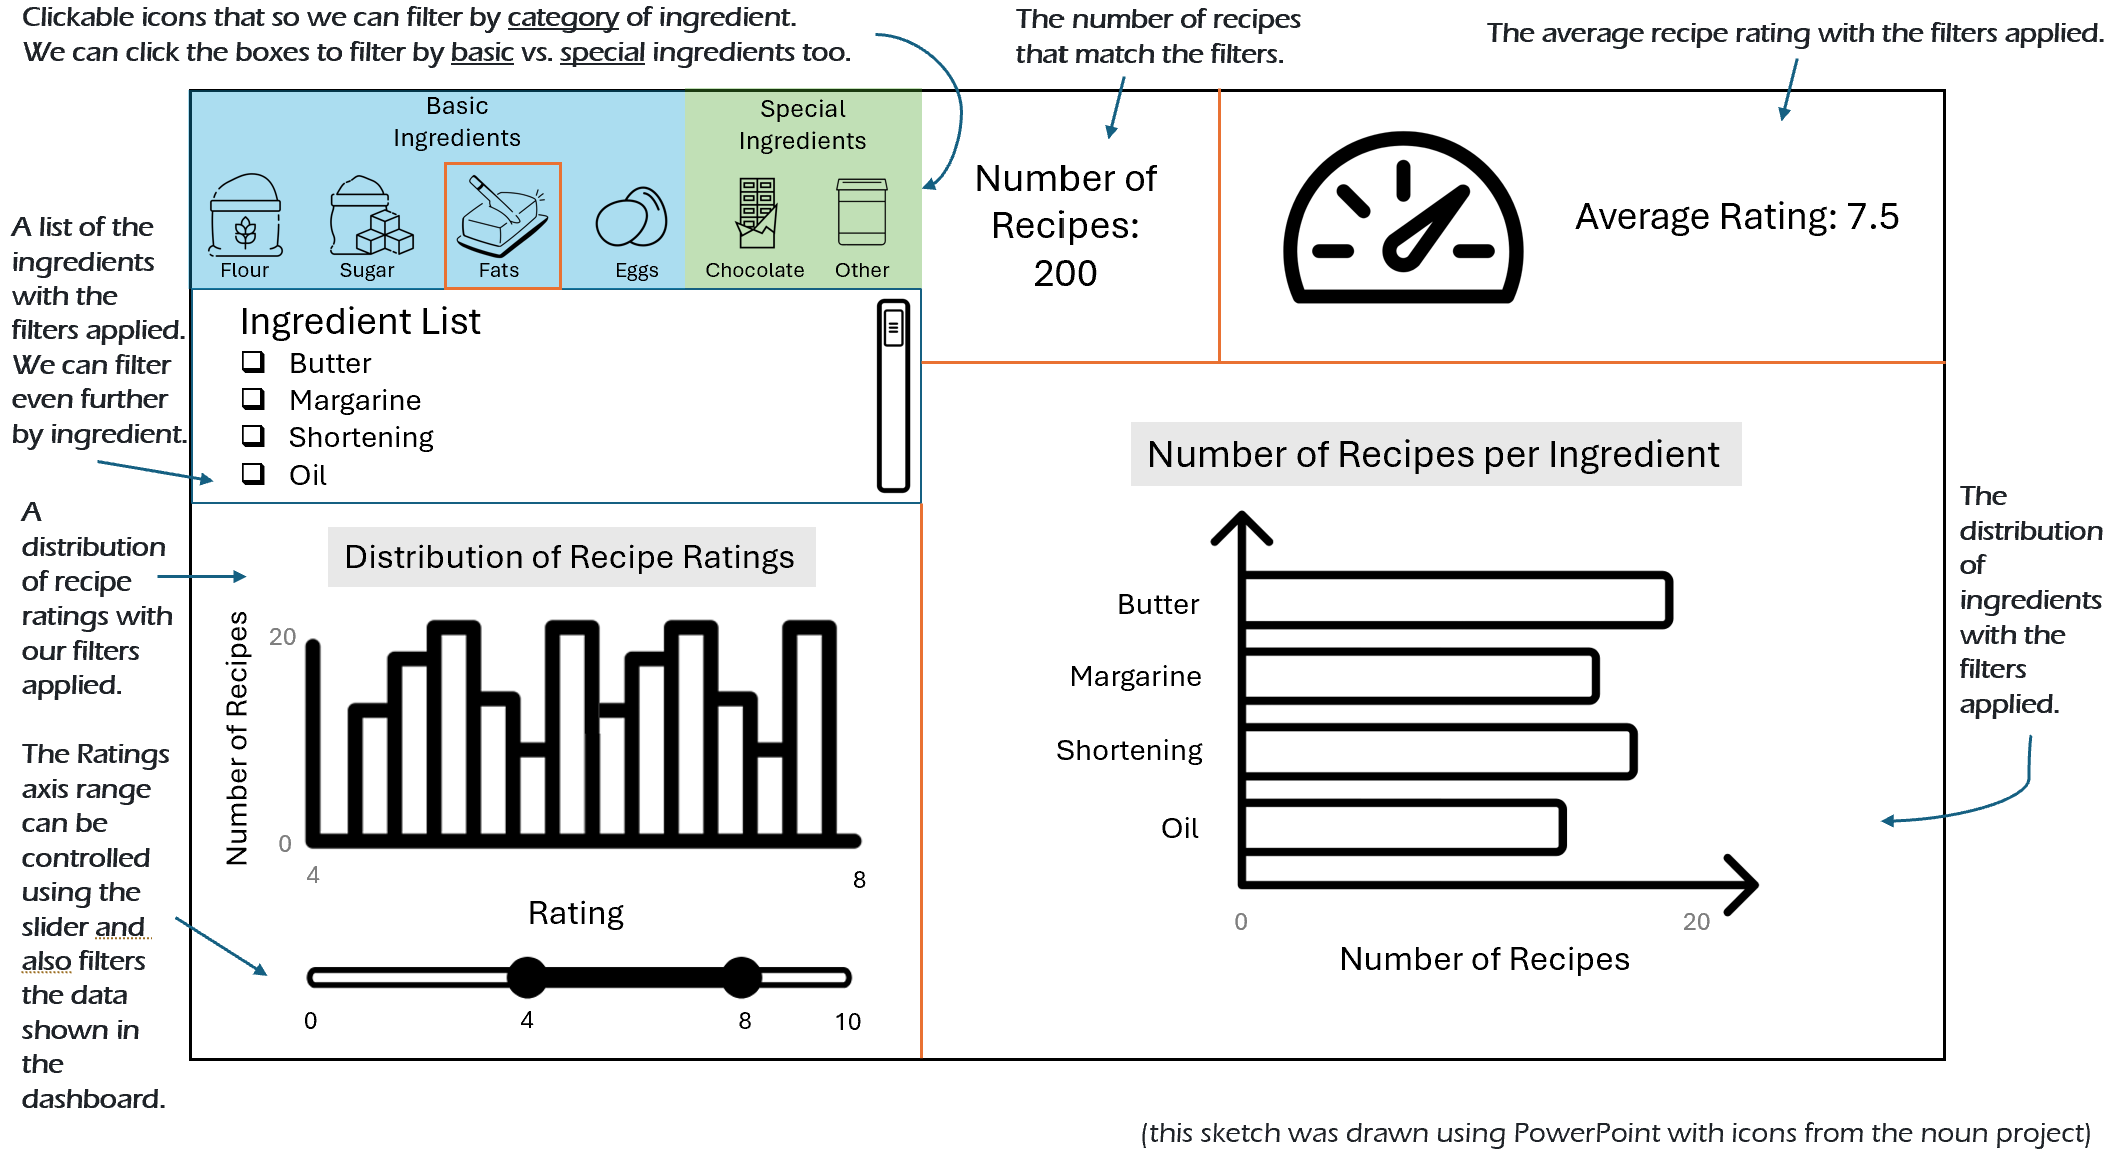
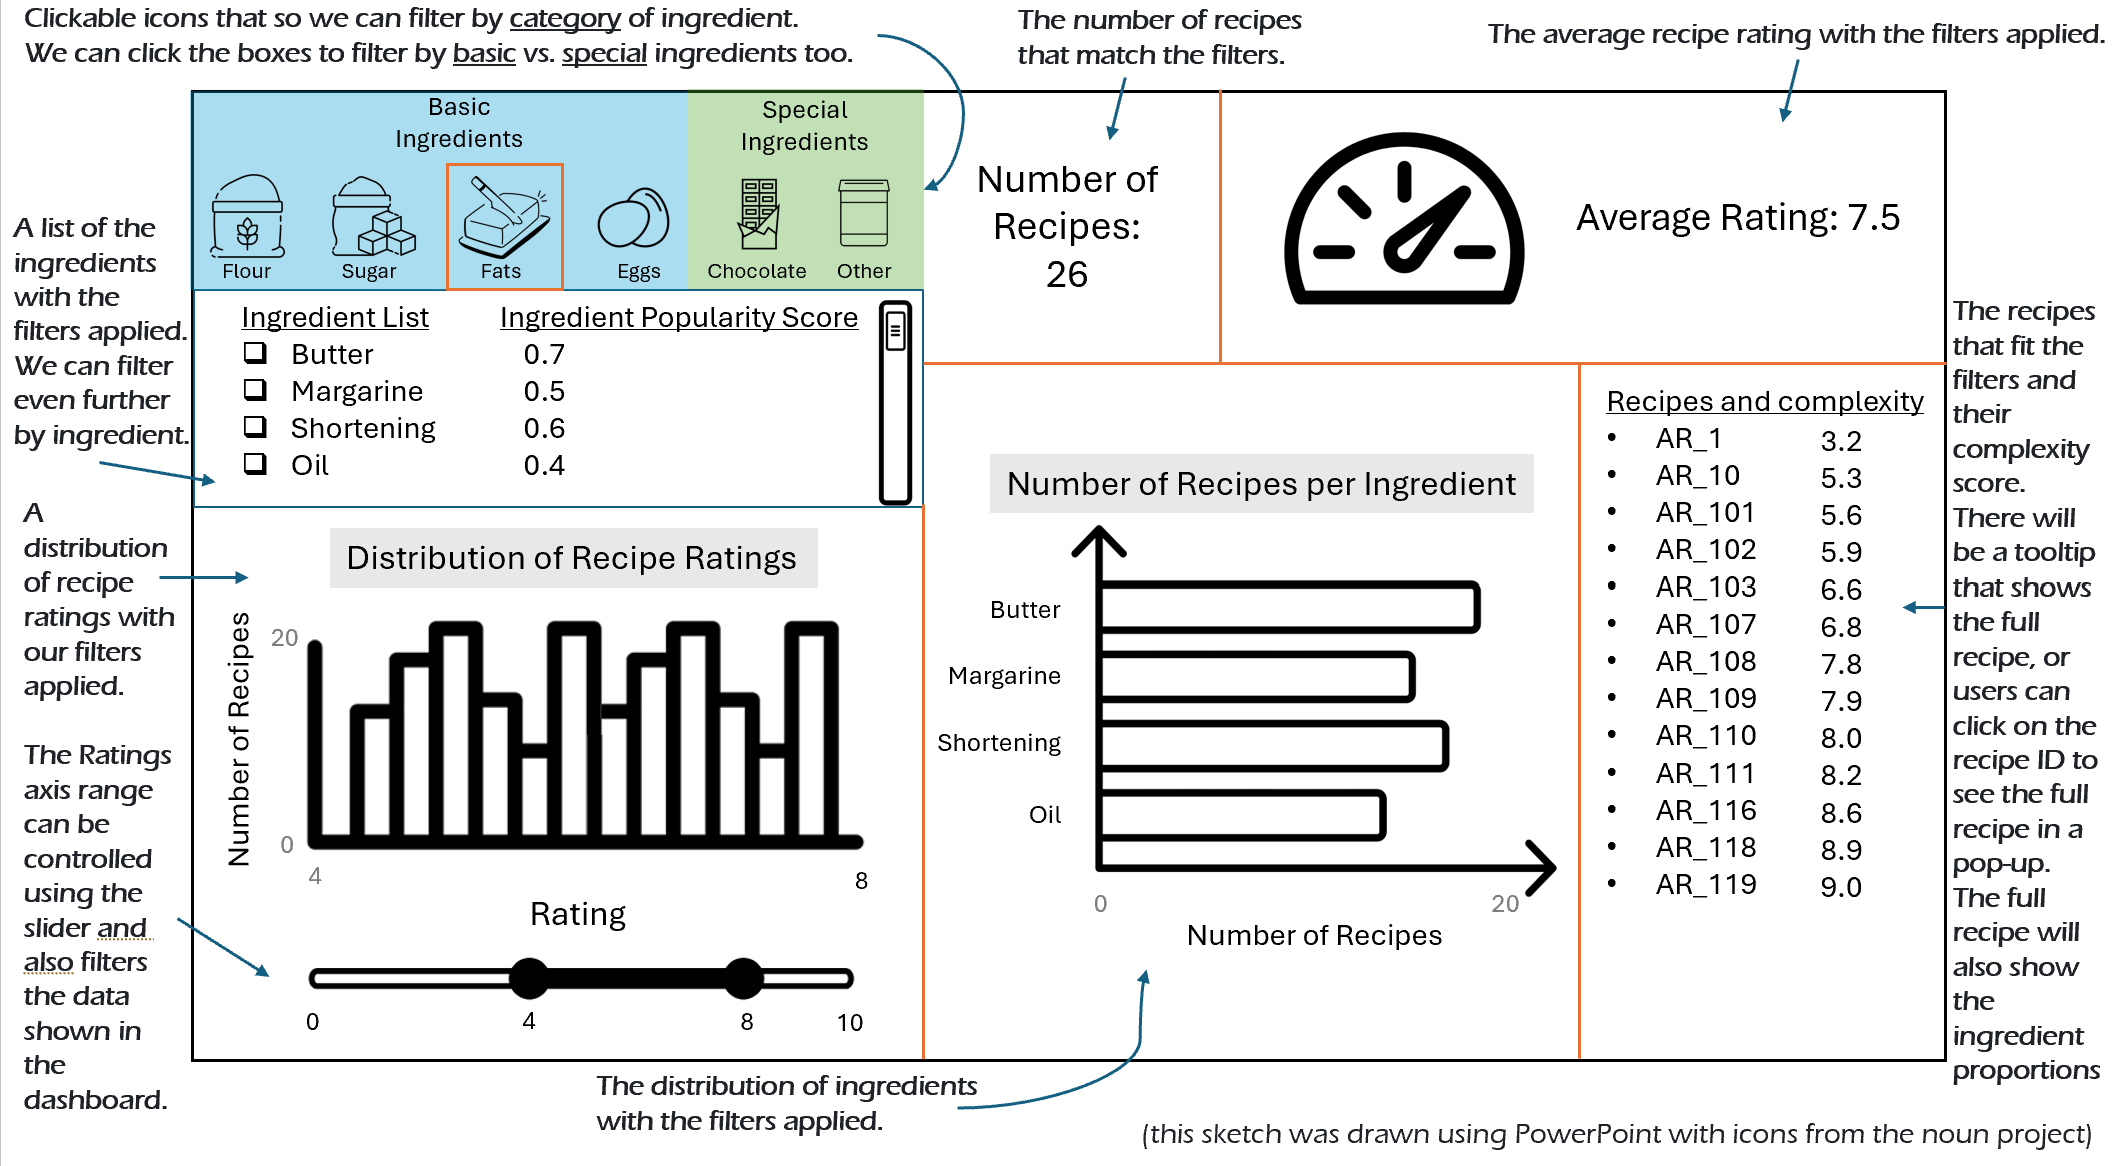
update sketch and description to include Mu's suggested columns

diff --git a/reports/m1_proposal.md b/reports/m1_proposal.md
@@ -23,6 +23,10 @@ The number of recipes and average recipe rating will also be displayed.
 From the clickable boxes, the user can filter by overall category (basic or special ingredient).
 They can filter even further by the ingredient subcategories (Flour, Sugar, Fats, Eggs, Chocolate, and Other) by clicking on the icons.
 Additionally, they can filter by specific ingredient from the list of ingredients.
+The list of ingredients will also display the popularity score of the ingredient.
 There is also a slider that will allow the user to filter by their desired recipe rating range.
+Also, there is a list of all of the recipes that match the filters, with their complexity score.
+Users can hover over each recipe to see the full recipe and the ingredient proportions via a tooltip.
+Alternatively, they can click on the recipe and there will be a pop-up with the full recipe and the ingredient proportions.
 
 ![Dashboard app sketch.](../img/sketch.png)
